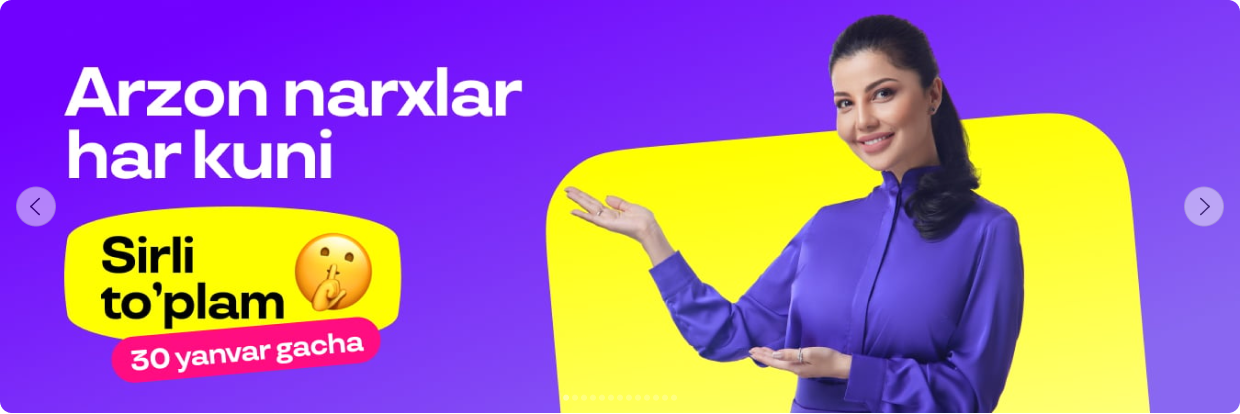
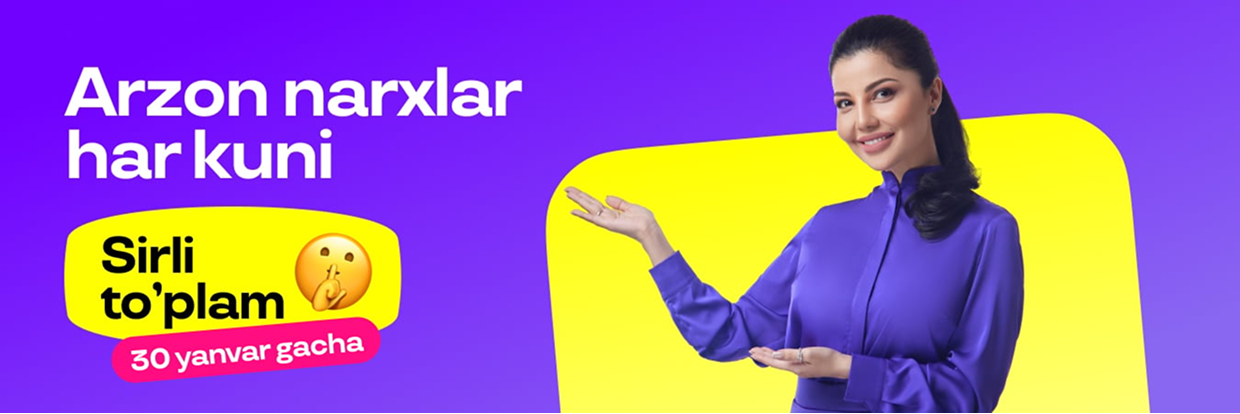
updated files

diff --git a/index.html b/index.html
@@ -2,7 +2,15 @@
 <html>
   <head>
     <meta charset="utf-8" />
+    <link
+      rel="stylesheet"
+      href="https://cdn.jsdelivr.net/npm/swiper@12/swiper-bundle.min.css"
+    />
     <link rel="stylesheet" href="style.css" />
+    <script
+      src="https://cdn.jsdelivr.net/npm/swiper@12/swiper-bundle.min.js"
+      defer
+    ></script>
     <script src="app.js" defer></script>
     <title>Uzum Market</title>
   </head>
@@ -49,57 +57,219 @@
     </header>
 
     <main>
-      <img src="assets/banner1.png" alt="" width="1180px" />
+      <section class="swiper">
+        <article class="swiper-wrapper">
+          <div class="swiper-slide">
+            <img src="assets/banner1.png" alt="" />
+          </div>
+          <div class="swiper-slide">
+            <img src="assets/banner2.png" alt="" />
+          </div>
+          <div class="swiper-slide">
+            <img src="assets/banner3.png" alt="" />
+          </div>
+        </article>
+        <div class="swiper-button-prev">
+          <img src="assets/slider_left.png" alt="" />
+        </div>
+        <div class="swiper-button-next">
+          <img src="assets/slider_right.png" alt="" />
+        </div>
+      </section>
       <h2>Arzon narxlar ></h2>
-      <section id="main_section1"></section>
+      <section id="main_section1">
+        <div class="main__item"></div>
+        <div class="main__item"></div>
+        <div class="main__item"></div>
+        <div class="main__item"></div>
+        <div class="main__item"></div>
+      </section>
       <h2>Elektronika ></h2>
-      <section id="main_section2"></section>
+      <section id="main_section2">
+        <div class="main__item"></div>
+        <div class="main__item"></div>
+        <div class="main__item"></div>
+        <div class="main__item"></div>
+        <div class="main__item"></div>
+      </section>
       <h2>Oshxona uchun texnika ></h2>
-      <section id="main_section3"></section>
+      <section id="main_section3">
+        <div class="main__item"></div>
+        <div class="main__item"></div>
+        <div class="main__item"></div>
+        <div class="main__item"></div>
+        <div class="main__item"></div>
+      </section>
       <img src="assets/banner2.png" alt="" width="1180px" />
       <h2>Muddatli to'lov ></h2>
-      <section id="main_section4"></section>
+      <section id="main_section4">
+        <div class="main__item"></div>
+        <div class="main__item"></div>
+        <div class="main__item"></div>
+        <div class="main__item"></div>
+        <div class="main__item"></div>
+      </section>
       <img src="assets/banner3.png" alt="" width="1180px" />
       <h2>Issiq texnika ></h2>
-      <section id="main_section5"></section>
+      <section id="main_section5">
+        <div class="main__item"></div>
+        <div class="main__item"></div>
+        <div class="main__item"></div>
+        <div class="main__item"></div>
+        <div class="main__item"></div>
+      </section>
       <h2>Uydan chiqmasdan ro'zg'or ></h2>
-      <section id="main_section6"></section>
+      <section id="main_section6">
+        <div class="main__item"></div>
+        <div class="main__item"></div>
+        <div class="main__item"></div>
+        <div class="main__item"></div>
+        <div class="main__item"></div>
+      </section>
       <h2>Qishki dam ></h2>
-      <section id="main_section7"></section>
+      <section id="main_section7">
+        <div class="main__item"></div>
+        <div class="main__item"></div>
+        <div class="main__item"></div>
+        <div class="main__item"></div>
+        <div class="main__item"></div>
+      </section>
       <h2>Shinam uy ></h2>
-      <section id="main_section8"></section>
+      <section id="main_section8">
+        <div class="main__item"></div>
+        <div class="main__item"></div>
+        <div class="main__item"></div>
+        <div class="main__item"></div>
+        <div class="main__item"></div>
+      </section>
       <h2>Go'zallik vositalari ></h2>
-      <section id="main_section9"></section>
+      <section id="main_section9">
+        <div class="main__item"></div>
+        <div class="main__item"></div>
+        <div class="main__item"></div>
+        <div class="main__item"></div>
+        <div class="main__item"></div>
+      </section>
       <h2>Mashhur ></h2>
-      <section id="main_section10"></section>
+      <section id="main_section10">
+        <div class="main__item"></div>
+        <div class="main__item"></div>
+        <div class="main__item"></div>
+        <div class="main__item"></div>
+        <div class="main__item"></div>
+      </section>
       <h2>Qurilish va ta'mirlash ></h2>
-      <section id="main_section11"></section>
+      <section id="main_section11">
+        <div class="main__item"></div>
+        <div class="main__item"></div>
+        <div class="main__item"></div>
+        <div class="main__item"></div>
+        <div class="main__item"></div>
+      </section>
       <h2>Hammasi 99k gacha (dan) ></h2>
-      <section id="main_section12"></section>
+      <section id="main_section12">
+        <div class="main__item"></div>
+        <div class="main__item"></div>
+        <div class="main__item"></div>
+        <div class="main__item"></div>
+        <div class="main__item"></div>
+      </section>
       <h2>Yangi yil - yangi bilimlar ></h2>
-      <section id="main_section13"></section>
+      <section id="main_section13">
+        <div class="main__item"></div>
+        <div class="main__item"></div>
+        <div class="main__item"></div>
+        <div class="main__item"></div>
+        <div class="main__item"></div>
+      </section>
       <h2>Butun oila uchun oyoq kiyim ></h2>
-      <section id="main_section14"></section>
+      <section id="main_section14">
+        <div class="main__item"></div>
+        <div class="main__item"></div>
+        <div class="main__item"></div>
+        <div class="main__item"></div>
+        <div class="main__item"></div>
+      </section>
       <h2>Bolalar uchun tovarlar ></h2>
-      <section id="main_section15"></section>
+      <section id="main_section15">
+        <div class="main__item"></div>
+        <div class="main__item"></div>
+        <div class="main__item"></div>
+        <div class="main__item"></div>
+        <div class="main__item"></div>
+      </section>
       <h2>Xobbi va ijodkorlik ></h2>
-      <section id="main_section16"></section>
+      <section id="main_section16">
+        <div class="main__item"></div>
+        <div class="main__item"></div>
+        <div class="main__item"></div>
+        <div class="main__item"></div>
+        <div class="main__item"></div>
+      </section>
       <h2>Flo turk oyoq kiyimi ></h2>
-      <section id="main_section17"></section>
+      <section id="main_section17">
+        <div class="main__item"></div>
+        <div class="main__item"></div>
+        <div class="main__item"></div>
+        <div class="main__item"></div>
+        <div class="main__item"></div>
+      </section>
       <h2>Uy yordamchilari ></h2>
-      <section id="main_section18"></section>
+      <section id="main_section18">
+        <div class="main__item"></div>
+        <div class="main__item"></div>
+        <div class="main__item"></div>
+        <div class="main__item"></div>
+        <div class="main__item"></div>
+      </section>
       <h2>Brendlar chegirmada ></h2>
-      <section id="main_section19"></section>
+      <section id="main_section19">
+        <div class="main__item"></div>
+        <div class="main__item"></div>
+        <div class="main__item"></div>
+        <div class="main__item"></div>
+        <div class="main__item"></div>
+      </section>
       <h2>Butun oila uchun kiyimlar ></h2>
-      <section id="main_section20"></section>
+      <section id="main_section20">
+        <div class="main__item"></div>
+        <div class="main__item"></div>
+        <div class="main__item"></div>
+        <div class="main__item"></div>
+        <div class="main__item"></div>
+      </section>
       <h2>Hammasi avto uchun ></h2>
-      <section id="main_section21"></section>
+      <section id="main_section21">
+        <div class="main__item"></div>
+        <div class="main__item"></div>
+        <div class="main__item"></div>
+        <div class="main__item"></div>
+        <div class="main__item"></div>
+      </section>
       <h2>So'glik va immunitet ></h2>
-      <section id="main_section22"></section>
+      <section id="main_section22">
+        <div class="main__item"></div>
+        <div class="main__item"></div>
+        <div class="main__item"></div>
+        <div class="main__item"></div>
+        <div class="main__item"></div>
+      </section>
       <h2>Yorug'lik uchun ></h2>
-      <section id="main_section23"></section>
+      <section id="main_section23">
+        <div class="main__item"></div>
+        <div class="main__item"></div>
+        <div class="main__item"></div>
+        <div class="main__item"></div>
+        <div class="main__item"></div>
+      </section>
       <h2>Yangi ></h2>
-      <section id="main_section24"></section>
+      <section id="main_section24">
+        <div class="main__item"></div>
+        <div class="main__item"></div>
+        <div class="main__item"></div>
+        <div class="main__item"></div>
+        <div class="main__item"></div>
+      </section>
     </main>
 
     <footer class="footer container">

diff --git a/app.js b/app.js
@@ -22,6 +22,25 @@ const section21 = document.querySelector("#main_section21");
 const section22 = document.querySelector("#main_section22");
 const section23 = document.querySelector("#main_section23");
 const section24 = document.querySelector("#main_section24");
+const main_item = document.querySelectorAll(".main__item");
+
+const swiper = new Swiper(".swiper", {
+  direction: "horizontal",
+  loop: true,
+
+  pagination: {
+    el: ".swiper-pagination",
+  },
+
+  navigation: {
+    nextEl: ".swiper-button-next",
+    prevEl: ".swiper-button-prev",
+  },
+
+  scrollbar: {
+    el: ".swiper-scrollbar",
+  },
+});
 
 const products = fetch("https://fakestoreapi.com/products").then((res) =>
   res.json(),
@@ -52,6 +71,30 @@ products.then((fetchedProducts) => {
   const clothingFilter = fetchedProducts.filter(
     (item) => item.category == "men's clothing" || "women's clothing",
   );
+  section1.innerHTML = "";
+  section2.innerHTML = "";
+  section3.innerHTML = "";
+  section4.innerHTML = "";
+  section5.innerHTML = "";
+  section6.innerHTML = "";
+  section7.innerHTML = "";
+  section8.innerHTML = "";
+  section9.innerHTML = "";
+  section10.innerHTML = "";
+  section11.innerHTML = "";
+  section12.innerHTML = "";
+  section13.innerHTML = "";
+  section14.innerHTML = "";
+  section15.innerHTML = "";
+  section16.innerHTML = "";
+  section17.innerHTML = "";
+  section18.innerHTML = "";
+  section19.innerHTML = "";
+  section20.innerHTML = "";
+  section21.innerHTML = "";
+  section22.innerHTML = "";
+  section23.innerHTML = "";
+  section24.innerHTML = "";
   fetchedProducts.forEach((card) => {
     renderCard(
       section1,

diff --git a/style.css b/style.css
@@ -1,5 +1,17 @@
 @import url("https://fonts.googleapis.com/css2?family=Inter:ital,opsz,wght@0,14..32,100..900;1,14..32,100..900&display=swap");
 
+@keyframes gradientMove {
+  0% {
+    background-position: 0% 50%;
+  }
+  50% {
+    background-position: 100% 50%;
+  }
+  100% {
+    background-position: 0% 50%;
+  }
+}
+
 * {
   margin: 0;
   padding: 0;
@@ -18,7 +30,6 @@ main {
   display: flex;
   flex-direction: column;
   gap: 10px;
-  padding: 0 130px;
   padding-top: 20px;
 }
 main h2 {
@@ -35,8 +46,12 @@ a {
 
 .container,
 main {
-  width: 1440px;
+  width: 1180px;
   margin: 0 auto;
+}
+
+.swiper {
+  width: 1180px;
 }
 
 .top {
@@ -44,7 +59,6 @@ main {
   align-items: center;
   justify-content: space-between;
   padding: 0 15px;
-  width: 1180px;
   height: 32px;
   background-color: #eee;
 }
@@ -95,7 +109,6 @@ main {
 .header__bottom {
   display: flex;
   align-items: center;
-  padding: 0 130px;
   gap: 30px;
 }
 
@@ -124,6 +137,9 @@ main {
   border: 1px solid #aaa;
   border-radius: 10px;
   padding: 7.5px;
+  background: linear-gradient(-45deg, #fff, #888);
+  background-size: 400% 400%;
+  animation: gradientMove 3s ease infinite;
 }
 
 .item__image {
@@ -147,7 +163,6 @@ main {
   display: flex;
   flex-direction: column;
   gap: 10px;
-  padding: 0 130px;
   margin-top: 50px;
 }
 